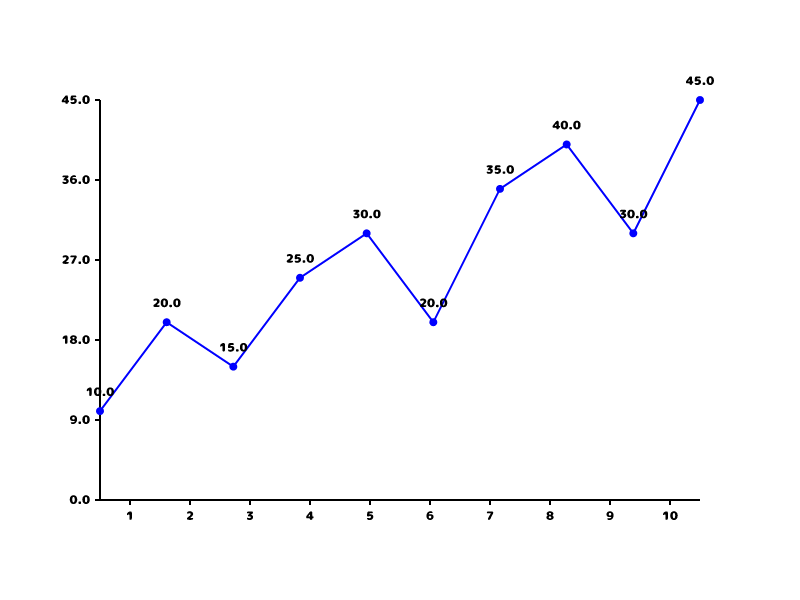
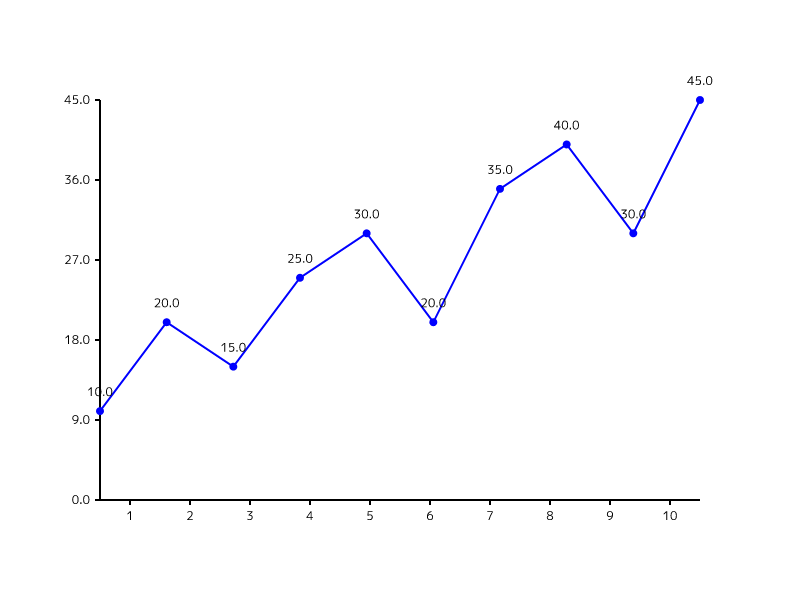
✨ feat: Add Japanese support description to README

diff --git a/README.md b/README.md
@@ -2,6 +2,7 @@
 
 A service that dynamically generates charts using Rust on Cloudflare Workers.
 This service can create line graphs, bar charts, scatter plots, and more using the plotters library.
+Fully supports Japanese text in titles and labels using the M+ 1p font, making it perfect for both English and Japanese applications.
 
 ## Output Examples
 
@@ -16,8 +17,8 @@ This service can create line graphs, bar charts, scatter plots, and more using t
 - Optimized text styling
 
 ### Font Used
-This project uses [Nikumaru Font](http://www.fontna.com/blog/1651/).
-Nikumaru Font is a rounded, easy-to-read Japanese font that was chosen to enhance graph readability.
+This project uses [M+ 1p Font](https://mplus-fonts.osdn.jp/).
+M+ 1p Font is a modern and clean Japanese font that provides excellent readability for graphs and charts.
 
 ## Requirements
 
@@ -96,6 +97,24 @@ curl -X POST http://localhost:8787 \
     "y_label": "Sales (millions)"
   }' \
   -o images/custom_chart.png
+```
+
+### 4.1. Using Japanese Customization Options
+
+![Custom Chart Japanese Example](images/custom_chart_ja.png)
+
+```bash
+# Specify title and axis labels in Japanese
+curl -X POST http://localhost:8787 \
+  -H "Content-Type: application/json" \
+  -d '{
+    "graph_type": "bar",
+    "data": [10, 20, 15, 25, 30],
+    "title": "月間売上推移 2024年",
+    "x_label": "月",
+    "y_label": "売上（百万円）"
+  }' \
+  -o images/custom_chart_ja.png
 ```
 
 ### 5. Sine Wave Data Test
